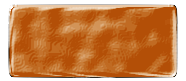
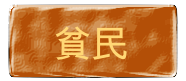
Change player rank when game end.

Changed region(s): [[0.2957, 0.321, 0.6989, 0.7407]]

diff --git a/Game.js b/Game.js
@@ -235,9 +235,28 @@ var Game = Class.create(Core, {
 	playerHasFinished: function() {
 		console.log('Player has finished game.');
 		this.clearField();
+		
+		// set player rank
 		this.ranking.push(this.players[this.current]);
+		switch(this.ranking.length) {
+			case 1:
+				this.players[this.current].rank = Game.ULTRARICH;
+				break;
+			case 2:
+				this.players[this.current].rank = Game.RICH;
+				break;
+			case 3:
+				this.players[this.current].rank = Game.POOR;
+				break;
+		}
+		this.infoboards.childNodes[this.current].update();
+		
 		if(this.ranking.length >= this.players.length - 1) {
 			console.log('All players has finished.');
+			var worst = this.next();
+			this.ranking.push(this.players[worst])
+			this.players[worst].rank = Game.ULTRAPOOR;
+			this.infoboards.childNodes[worst].update();
 			this.stopGame();
 		} else {
 			this.current = this.next(); 

diff --git a/Infoboard.js b/Infoboard.js
@@ -40,6 +40,24 @@ var Infoboard = Class.create(Group, {
 	 */
 	update: function() {
 		this.handNum.text = '手札：' + this.player.hand.childNodes.length;
+		var rank = this.player.rank;
+		switch(this.player.rank) {
+			case Game.ULTRARICH:
+				this.background.image = game.assets['img/ultrarich.png'];
+				break;
+			case Game.RICH:
+				this.background.image = game.assets['img/rich.png'];
+				break;
+			case Game.COMMONER:
+				this.background.image = game.assets['img/commoner.png'];
+				break;
+			case Game.POOR:
+				this.background.image = game.assets['img/poor.png'];
+				break;
+			case Game.ULTRAPOOR:
+				this.background.image = game.assets['img/ultrapoor.png'];
+				break;
+		}
 	},
 	
 	/**

diff --git a/Player.js b/Player.js
@@ -131,7 +131,7 @@ var Player = Class.create(PlayerBase, {
 	 * @function
 	 */
 	exchange: function() {
-		console.log('Exchange hands');
+		console.log('Player: Exchange hands');
 	},
 	
 	/**

diff --git a/AI.js b/AI.js
@@ -207,7 +207,7 @@ var AI = Class.create(PlayerBase, {
 	 * @function
 	 */
 	exchange: function() {
-		console.log('Exchange hands');
+		console.log('AI: Exchange hands');
 	},
 	
 	/**
